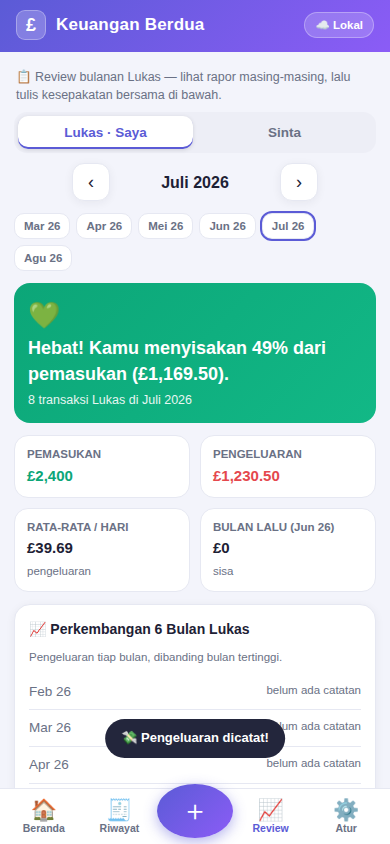
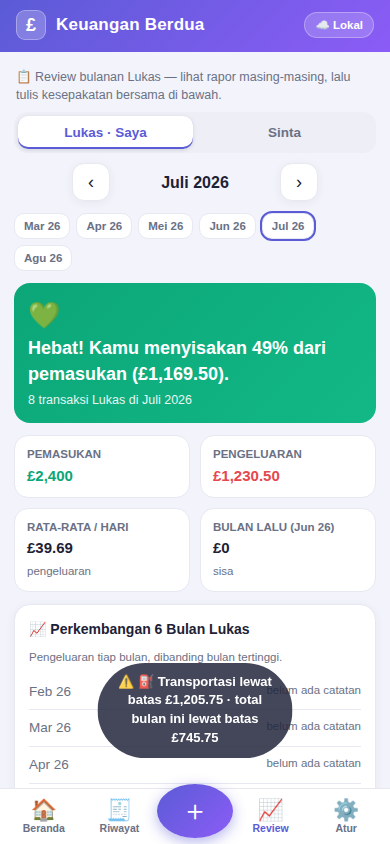
Add detailed spending limits
A dedicated limits screen sets everything in one place: an overall
monthly cap plus a per-category limit that can be pegged per day, per
week or per month, normalised to a full month when compared against
actual spending. Home shows a total-limit bar with the remaining
allowance per day left, Review compares limits against actuals, and
saving a transaction that crosses a limit warns instead of just
confirming. Limits are per person and sync across both phones.

Claude-Session: https://claude.ai/code/session_014wkPnrCu6CWC52eXcwjijP

Changed region(s): [[0.2462, 0.7701, 0.7692, 0.9242]]

diff --git a/keuangan/index.html b/keuangan/index.html
@@ -127,6 +127,11 @@ input:focus,select:focus,textarea:focus{border-color:var(--pri); background:#fff
 .persw{margin-bottom:10px}
 .persw button.on.pa{color:var(--a); box-shadow:0 1px 4px rgba(0,0,0,.12), inset 0 -2px 0 var(--a)}
 .persw button.on.pb{color:var(--b); box-shadow:0 1px 4px rgba(0,0,0,.12), inset 0 -2px 0 var(--b)}
+.limrow{display:grid; grid-template-columns:1fr 96px 118px; gap:8px; align-items:center; padding:7px 0; border-bottom:1px solid var(--line)}
+.limrow:last-of-type{border-bottom:0}
+.limrow .ln{font-size:13.5px; font-weight:600; min-width:0; overflow:hidden; text-overflow:ellipsis; white-space:nowrap}
+.limrow input{padding:9px 10px; font-size:14px; text-align:right}
+.limrow select{padding:9px 6px; font-size:12.5px}
 .owner{border-radius:12px; padding:9px 12px; font-size:12.5px; margin-bottom:10px}
 .owner.a{background:var(--a-soft); color:var(--a)} .owner.b{background:var(--b-soft); color:var(--b)}
 /* category picker grid */
@@ -283,10 +288,10 @@ function defaultCats(){return [
 /* ---------- state ---------- */
 const LSK='keuanganBerdua.v1';      // data bersama (ikut tersinkron)
 const LSL='keuanganBerdua.loc.v1';  // khusus perangkat ini (identitas HP)
-let S={ settings:{nameA:'Orang 1', nameB:'Orang 2', currency:'GBP', sync:{enabled:false, apiKey:'', projectId:'', coupleId:''}}, categories:defaultCats(), tx:[], reviews:{} };
+let S={ settings:{nameA:'Orang 1', nameB:'Orang 2', currency:'GBP', limitTotal:{a:0,b:0}, sync:{enabled:false, apiKey:'', projectId:'', coupleId:''}}, categories:defaultCats(), tx:[], reviews:{} };
 let L={ me:'a', deviceId:rid(8), setupDone:false };
 function load(){
-  try{const j=JSON.parse(localStorage.getItem(LSK)); if(j&&j.settings){S=j; S.tx=S.tx||[]; S.reviews=S.reviews||{}; S.categories=S.categories&&S.categories.length?S.categories:defaultCats(); S.settings.sync=S.settings.sync||{enabled:false,apiKey:'',projectId:'',coupleId:''}; S.settings.currency=S.settings.currency||'GBP';}}catch(e){}
+  try{const j=JSON.parse(localStorage.getItem(LSK)); if(j&&j.settings){S=j; S.tx=S.tx||[]; S.reviews=S.reviews||{}; S.categories=S.categories&&S.categories.length?S.categories:defaultCats(); S.settings.sync=S.settings.sync||{enabled:false,apiKey:'',projectId:'',coupleId:''}; S.settings.currency=S.settings.currency||'GBP'; S.settings.limitTotal=S.settings.limitTotal||{a:0,b:0};}}catch(e){}
   try{const j=JSON.parse(localStorage.getItem(LSL)); if(j&&j.deviceId)L=j;}catch(e){}
 }
 function save(){ localStorage.setItem(LSK, JSON.stringify(S)); }
@@ -316,6 +321,28 @@ const budgetOf=(c,who)=>{const b=c&&c.budget; return typeof b==='object'&&b?(Num
 function setBudgetOf(c,who,v){
   if(typeof c.budget!=='object'||!c.budget){const old=Number(c.budget)||0; c.budget={a:old,b:old};}
   c.budget[who]=v;
+}
+/* Batas pengeluaran bisa dipatok per hari, per minggu, atau per bulan.
+   Semuanya dihitung ulang menjadi batas satu bulan penuh agar bisa
+   dibandingkan dengan realisasi bulan berjalan. */
+const PERIODS={day:{lab:'per hari', short:'/hr'}, week:{lab:'per minggu', short:'/mgg'}, month:{lab:'per bulan', short:'/bln'}};
+const periodOf=(c,who)=>{const p=c&&c.period; const v=(typeof p==='object'&&p)?p[who]:p; return PERIODS[v]?v:'month';};
+function setPeriodOf(c,who,v){
+  if(typeof c.period!=='object'||!c.period){const old=PERIODS[c.period]?c.period:'month'; c.period={a:old,b:old};}
+  c.period[who]=PERIODS[v]?v:'month';
+}
+function monthLimit(c,who,mk){
+  const amt=budgetOf(c,who); if(amt<=0) return 0;
+  const per=periodOf(c,who), d=daysInMonth(mk);
+  return per==='day'?amt*d : per==='week'?amt*d/7 : amt;
+}
+const limitLabel=(c,who)=>{const per=periodOf(c,who); return rp(budgetOf(c,who))+(per==='month'?'':' '+PERIODS[per].short);};
+const totalLimit=who=>Number((S.settings.limitTotal||{})[who])||0;
+/* sisa hari pada bulan berjalan (bulan lain dihitung penuh) */
+function daysLeft(mk){
+  const d=daysInMonth(mk);
+  if(mk!==mkeyNow()) return d;
+  return Math.max(1, d - new Date().getDate() + 1);
 }
 
 /* ---------- state UI ---------- */
@@ -362,21 +389,38 @@ function vHome(){
     <div class="sum out"><div class="t">Pengeluaran</div><div class="v">${rp(s.out)}</div></div>
     <div class="sum net ${s.net<0?'minus':''}"><div><div class="t">Sisa bulan ini</div><div class="v">${rpS(s.net)}</div></div><div style="font-size:30px">${s.net<0?'😰':'💰'}</div></div>
   </div>`;
-  // pengeluaran per kategori + anggaran
+  // batas total pengeluaran bulan ini
+  const tl=totalLimit(w);
+  if(tl>0){
+    const pct=Math.round(s.out/tl*100), left=tl-s.out, dl=daysLeft(k);
+    const cls=s.out>tl?'over':(s.out>tl*.8?'warn':'');
+    h+=`<div class="card" style="margin-top:12px"><h2>🎯 Batas Pengeluaran Bulan Ini
+      <button class="btn ghost sm" style="margin-left:auto" onclick="openLimits()">Atur</button></h2>
+      <div class="top" style="display:flex;justify-content:space-between;font-size:13.5px"><span>Terpakai <b>${rp(s.out)}</b> dari ${rp(tl)}</span><b class="${cls==='over'?'':''}" style="color:${s.out>tl?'var(--out)':'var(--ink)'}">${pct}%</b></div>
+      <div class="bar" style="margin-top:6px"><i class="${cls}" style="width:${Math.min(100,pct)}%"></i></div>
+      ${left>=0
+        ? `<div class="small mut" style="margin-top:6px">Sisa <b style="color:var(--in)">${rp(left)}</b>${k===mkeyNow()?` · kira-kira <b>${rp(left/dl)}</b> per hari untuk ${dl} hari tersisa`:''}</div>`
+        : `<div class="small" style="margin-top:6px;color:var(--out);font-weight:700">Lewat batas ${rp(-left)} ⚠</div>`}
+    </div>`;
+  }
+  // pengeluaran per kategori + batasnya
   const rows=S.categories.filter(c=>c.type==='out').map(c=>({c, spent:s.byCatOut[c.id]||0}))
     .filter(x=>x.spent>0 || budgetOf(x.c,w)>0).sort((x,y)=>y.spent-x.spent);
   const orphan=Object.keys(s.byCatOut).filter(id=>!S.categories.some(c=>c.id===id));
   for(const id of orphan) rows.push({c:cat(id), spent:s.byCatOut[id]});
-  h+=`<div class="card" style="margin-top:12px"><h2>📊 Pengeluaran per Kategori</h2>`;
-  if(!rows.length) h+=`<div class="empty"><div class="e">🌱</div>Belum ada pengeluaran bulan ini.<br><span class="tiny">Atur anggaran per kategori di menu <b>Atur → Kategori</b>.</span></div>`;
+  h+=`<div class="card" style="margin-top:12px"><h2>📊 Pengeluaran per Kategori
+    <button class="btn ghost sm" style="margin-left:auto" onclick="openLimits()">🎯 Batas</button></h2>`;
+  if(!rows.length) h+=`<div class="empty"><div class="e">🌱</div>Belum ada pengeluaran bulan ini.<br><span class="tiny">Atur batas pengeluaranmu lewat tombol <b>🎯 Batas</b> di atas.</span></div>`;
   else{
-    const mx=Math.max(...rows.map(x=>Math.max(x.spent, budgetOf(x.c,w))),1);
+    const mx=Math.max(...rows.map(x=>Math.max(x.spent, monthLimit(x.c,w,k))),1);
     for(const {c,spent} of rows){
-      const b=budgetOf(c,w), pct=b>0?spent/b:spent/mx;
+      const b=monthLimit(c,w,k), pct=b>0?spent/b:spent/mx;
       const cls=b>0?(spent>b?'over':(spent>b*.8?'warn':'')):'';
+      const per=periodOf(c,w);
       h+=`<div class="crow"><div class="top"><span>${c.icon} ${esc(c.name)}</span><b>${rp(spent)}${b>0?`<span class="mut tiny"> / ${rp(b)}</span>`:''}</b></div>
       <div class="bar"><i class="${cls}" style="width:${Math.min(100,Math.round(pct*100))}%"></i></div>
-      ${b>0&&spent>b?`<div class="tiny" style="color:var(--out);font-weight:700;margin-top:3px">Melebihi anggaran ${rp(spent-b)} ⚠</div>`:''}</div>`;
+      ${b>0&&per!=='month'?`<div class="tiny mut" style="margin-top:3px">batas ${limitLabel(c,w)} · setara ${rp(b)} sebulan</div>`:''}
+      ${b>0&&spent>b?`<div class="tiny" style="color:var(--out);font-weight:700;margin-top:3px">Melebihi batas ${rp(spent-b)} ⚠</div>`:''}</div>`;
     }
   }
   h+=`</div>`;
@@ -493,19 +537,27 @@ function vReview(){
     }
     h+=`</div>`;
   }
-  // anggaran vs realisasi
+  // batas vs realisasi
+  const tlim=totalLimit(w);
   const brows=S.categories.filter(c=>c.type==='out'&&(budgetOf(c,w)>0||(s.byCatOut[c.id]||0)>0))
     .map(c=>({c,spent:s.byCatOut[c.id]||0})).sort((x,y)=>y.spent-x.spent);
-  if(brows.length){
-    h+=`<div class="card"><h2>🎯 Anggaran vs Realisasi</h2>`;
+  if(tlim>0||brows.length){
+    h+=`<div class="card"><h2>🎯 Batas vs Realisasi
+      <button class="btn ghost sm" style="margin-left:auto" onclick="openLimits()">Atur</button></h2>`;
+    if(tlim>0){
+      h+=`<div class="crow"><div class="top"><span>${s.out<=tlim?'✅':'❌'} <b>Batas total bulanan</b></span>
+        <b>${rp(s.out)}<span class="mut tiny"> / ${rp(tlim)}</span></b></div>
+        <div class="bar"><i class="${s.out>tlim?'over':(s.out>tlim*.8?'warn':'')}" style="width:${Math.min(100,Math.round(s.out/tlim*100))}%"></i></div></div>`;
+    }
     for(const {c,spent} of brows){
-      const b=budgetOf(c,w);
+      const b=monthLimit(c,w,k), per=periodOf(c,w);
       const st=b>0?(spent<=b?'✅':'❌'):'·';
       h+=`<div class="crow"><div class="top"><span>${st} ${c.icon} ${esc(c.name)}</span>
         <b>${rp(spent)}${b>0?`<span class="mut tiny"> / ${rp(b)}</span>`:''}</b></div>
-        ${b>0?`<div class="bar"><i class="${spent>b?'over':(spent>b*.8?'warn':'')}" style="width:${Math.min(100,Math.round(spent/b*100))}%"></i></div>`:''}</div>`;
+        ${b>0?`<div class="bar"><i class="${spent>b?'over':(spent>b*.8?'warn':'')}" style="width:${Math.min(100,Math.round(spent/b*100))}%"></i></div>`:''}
+        ${b>0&&per!=='month'?`<div class="tiny mut" style="margin-top:3px">batas ${limitLabel(c,w)}</div>`:''}</div>`;
     }
-    h+=`<div class="tiny mut" style="margin-top:8px">Anggaran ini milik ${esc(nameOf(w))} sendiri — atur lewat <b>Atur → Kategori & Anggaran</b>.</div></div>`;
+    h+=`<div class="tiny mut" style="margin-top:8px">Batas ini milik ${esc(nameOf(w))} sendiri.</div></div>`;
   }
   // 5 pengeluaran terbesar
   const top=txMonth(k,w).filter(t=>t.type==='out').sort((a,b)=>(b.amount||0)-(a.amount||0)).slice(0,5);
@@ -540,8 +592,9 @@ function vSet(){
   const sy=S.settings.sync||{};
   const catRows=t=>S.categories.filter(c=>c.type===t).map(c=>`
     <div class="srow"><span style="font-size:19px">${c.icon}</span>
-      <div class="n">${esc(c.name)}${t==='out'?`<div class="b">Anggaran ${esc(nameOf(UI.who))}: ${budgetOf(c,UI.who)>0?rp(budgetOf(c,UI.who))+'/bulan':'belum diatur'}</div>`:''}</div>
+      <div class="n">${esc(c.name)}${t==='out'?`<div class="b">Batas ${esc(nameOf(UI.who))}: ${budgetOf(c,UI.who)>0?limitLabel(c,UI.who):'belum diatur'}</div>`:''}</div>
       <button class="iconbtn" onclick="openCat('${esc(c.id)}')">✏</button></div>`).join('');
+  const tl=totalLimit(UI.who);
   return `
   <div class="card"><h2>👥 Profil Berdua</h2>
     <div class="grid2">
@@ -564,8 +617,16 @@ function vSet(){
     </div>
   </div>
 
-  <div class="card"><h2>🏷 Kategori & Anggaran</h2>
-    <div class="small mut" style="margin-bottom:8px">Anggaran yang ditampilkan milik <b>${esc(nameOf(UI.who))}</b>. Ganti orangnya di Beranda untuk mengatur milik satunya.</div>
+  <div class="card"><h2>🎯 Batas Pengeluaran</h2>
+    <p class="small mut" style="margin:0 0 10px">Atur batas total bulanan dan batas tiap kategori milik <b>${esc(nameOf(UI.who))}</b> dalam satu layar.
+      Batas bisa dipatok <b>per hari, per minggu, atau per bulan</b>, dan kamu diingatkan begitu terlampaui.</p>
+    <div class="srow"><span style="font-size:19px">💷</span>
+      <div class="n">Batas total per bulan<div class="b">${tl>0?rp(tl):'belum diatur'}</div></div></div>
+    <button class="btn" style="margin-top:12px" onclick="openLimits()">🎯 Atur Batas Pengeluaran</button>
+  </div>
+
+  <div class="card"><h2>🏷 Kategori</h2>
+    <div class="small mut" style="margin-bottom:8px">Batas yang ditampilkan milik <b>${esc(nameOf(UI.who))}</b>. Ganti orangnya di Beranda untuk mengatur milik satunya.</div>
     <div class="small mut" style="margin-bottom:6px">Pengeluaran</div>${catRows('out')}
     <div class="small mut" style="margin:12px 0 6px">Pemasukan</div>${catRows('in')}
     <div style="margin-top:12px"><button class="btn ghost" onclick="openCat()">➕ Tambah kategori</button></div>
@@ -704,7 +765,8 @@ window.saveTx=()=>{
   closeModal();
   UI.month=date.slice(0,7); UI.who=t.who;
   render();
-  toast(t.type==='in'?'💰 Pemasukan dicatat!':'💸 Pengeluaran dicatat!');
+  const warn=limitAlert(t);
+  toast(warn || (t.type==='in'?'💰 Pemasukan dicatat!':'💸 Pengeluaran dicatat!'));
 };
 window.delTx=id=>{
   if(!confirm('Hapus transaksi ini? (terhapus juga di HP pasangan)')) return;
@@ -712,6 +774,55 @@ window.delTx=id=>{
   save(); deleteTxCloud(id);
   closeModal(); render(); toast('🗑 Transaksi dihapus.');
 };
+
+/* ---------- modal batas pengeluaran (semua batas dalam satu layar) ---------- */
+window.openLimits=()=>{
+  const w=UI.who;
+  const cats=S.categories.filter(c=>c.type==='out');
+  const perSel=(c)=>`<select id="lp_${esc(c.id)}">${Object.keys(PERIODS).map(p=>
+    `<option value="${p}" ${periodOf(c,w)===p?'selected':''}>${PERIODS[p].lab}</option>`).join('')}</select>`;
+  $('#modal').innerHTML=`
+  <h3>🎯 Batas Pengeluaran<button class="x" onclick="closeModal()">✕</button></h3>
+  <div class="owner ${w}">Batas milik <b>${esc(nameOf(w))}</b>${w===L.me?' (kamu)':''} — pasanganmu punya batasnya sendiri.</div>
+  <div class="field"><label>Batas total pengeluaran per bulan (kosong = tanpa batas)</label>
+    <input id="lTotal" class="amount" style="font-size:20px;padding:11px" inputmode="${cur().dec?'decimal':'numeric'}"
+      value="${amtStr(totalLimit(w))}" placeholder="${cur().sym.trim()} 0" oninput="fmtAmt(this)"></div>
+  <div class="small mut" style="margin:14px 2px 8px"><b>Batas per kategori</b> — pilih satuannya: per hari, per minggu, atau per bulan.</div>
+  ${cats.map(c=>`<div class="limrow">
+    <div class="ln">${c.icon} ${esc(c.name)}</div>
+    <input id="lb_${esc(c.id)}" inputmode="${cur().dec?'decimal':'numeric'}" value="${amtStr(budgetOf(c,w))}" placeholder="0" oninput="fmtAmt(this)">
+    ${perSel(c)}
+  </div>`).join('')}
+  <button class="btn" style="margin-top:14px" onclick="saveLimits()">💾 Simpan Semua Batas</button>
+  <div class="tiny mut" style="margin-top:8px">Batas harian/mingguan otomatis dihitung ke sebulan penuh saat dibandingkan dengan pengeluaran. Kamu akan diingatkan begitu sebuah batas terlampaui.</div>`;
+  openModal();
+};
+window.saveLimits=()=>{
+  const w=UI.who;
+  (S.settings.limitTotal=S.settings.limitTotal||{a:0,b:0})[w]=num($('#lTotal').value);
+  for(const c of S.categories.filter(x=>x.type==='out')){
+    const amt=$('#lb_'+CSS.escape(c.id)), per=$('#lp_'+CSS.escape(c.id));
+    if(!amt) continue;
+    setBudgetOf(c, w, num(amt.value));
+    setPeriodOf(c, w, per?per.value:'month');
+  }
+  save(); queueSync('categories'); queueSync('settings');
+  closeModal(); render(); toast('🎯 Batas pengeluaran disimpan.');
+};
+/* peringatan begitu sebuah batas terlampaui oleh transaksi yang baru disimpan */
+function limitAlert(t){
+  if(t.type!=='out') return '';
+  const k=t.date.slice(0,7), w=whoOf(t), s=sums(k,w), msgs=[];
+  const c=S.categories.find(x=>x.id===t.catId);
+  if(c){
+    const b=monthLimit(c,w,k), spent=s.byCatOut[c.id]||0;
+    if(b>0&&spent>b) msgs.push(`${c.icon} ${c.name} lewat batas ${rp(spent-b)}`);
+    else if(b>0&&spent>b*.8) msgs.push(`${c.icon} ${c.name} sudah ${Math.round(spent/b*100)}% dari batas`);
+  }
+  const tl=totalLimit(w);
+  if(tl>0&&s.out>tl) msgs.push(`total bulan ini lewat batas ${rp(s.out-tl)}`);
+  return msgs.length?'⚠ '+msgs.join(' · '):'';
+}
 
 /* ---------- modal kategori ---------- */
 const MC={};
@@ -732,9 +843,13 @@ function drawCatModal(c){
     <div class="field"><label>Emoji ikon</label><input id="mcIcon" value="${esc(c?c.icon:'🏷')}" maxlength="4"></div>
     <div class="field"><label>Nama kategori</label><input id="mcName" value="${esc(c?c.name:'')}" placeholder="cth: Kopi & Nongkrong"></div>
   </div>
-  <div class="field" style="${MC.type==='in'?'display:none':''}"><label>Anggaran ${esc(nameOf(UI.who))} per bulan (${cur().sym.trim()}, kosong = tanpa anggaran)</label>
-    <input id="mcBud" inputmode="${cur().dec?'decimal':'numeric'}" value="${amtStr(c?budgetOf(c,UI.who):0)}" placeholder="${cur().dec?'cth: 1,500':'cth: 1.500.000'}" oninput="fmtAmt(this)">
-    <div class="tiny mut" style="margin-top:5px">Anggaran dihitung per orang. Untuk mengatur milik ${esc(nameOf(UI.who==='a'?'b':'a'))}, ganti dulu orangnya di Beranda.</div></div>
+  <div class="field" style="${MC.type==='in'?'display:none':''}"><label>Batas pengeluaran ${esc(nameOf(UI.who))} (kosong = tanpa batas)</label>
+    <div style="display:flex;gap:8px">
+      <input id="mcBud" inputmode="${cur().dec?'decimal':'numeric'}" value="${amtStr(c?budgetOf(c,UI.who):0)}" placeholder="${cur().dec?'cth: 400':'cth: 1.500.000'}" oninput="fmtAmt(this)">
+      <select id="mcPer" style="width:130px;flex:none">${Object.keys(PERIODS).map(p=>
+        `<option value="${p}" ${(c?periodOf(c,UI.who):'month')===p?'selected':''}>${PERIODS[p].lab}</option>`).join('')}</select>
+    </div>
+    <div class="tiny mut" style="margin-top:5px">Batas dihitung per orang. Untuk mengatur milik ${esc(nameOf(UI.who==='a'?'b':'a'))}, ganti dulu orangnya di Beranda.</div></div>
   <button class="btn" onclick="saveCat()">💾 Simpan</button>
   ${c?`<button class="btn danger" style="margin-top:8px" onclick="delCat('${esc(c.id)}')" ${used?'disabled title="Masih dipakai transaksi"':''}>🗑 Hapus kategori${used?' (masih dipakai transaksi)':''}</button>`:''}`;
 }
@@ -748,12 +863,11 @@ window.saveCat=()=>{
   if(!name) return toast('Isi nama kategorinya dulu.');
   const icon=$('#mcIcon').value.trim()||'🏷';
   const budget=MC.type==='out'?num($('#mcBud')?$('#mcBud').value:0):0;
-  if(MC.id){ const c=S.categories.find(x=>x.id===MC.id); if(c){ c.name=name; c.icon=icon; setBudgetOf(c,UI.who,budget); } }
-  else{
-    const c={id:'c'+Date.now().toString(36)+rid(3), name, icon, type:MC.type, budget:{a:0,b:0}};
-    c.budget[UI.who]=budget;
-    S.categories.push(c);
-  }
+  const per=MC.type==='out'&&$('#mcPer')?$('#mcPer').value:'month';
+  let c=MC.id?S.categories.find(x=>x.id===MC.id):null;
+  if(!c){ c={id:'c'+Date.now().toString(36)+rid(3), name, icon, type:MC.type, budget:{a:0,b:0}, period:{a:'month',b:'month'}}; S.categories.push(c); }
+  c.name=name; c.icon=icon;
+  setBudgetOf(c,UI.who,budget); setPeriodOf(c,UI.who,per);
   save(); queueSync('categories');
   closeModal(); render(); toast('🏷 Kategori disimpan.');
 };
@@ -861,7 +975,7 @@ function pushKV(id){
   let data;
   if(id==='categories') data=S.categories;
   else if(id==='reviews') data=S.reviews;
-  else if(id==='settings') data={nameA:S.settings.nameA, nameB:S.settings.nameB, currency:S.settings.currency};
+  else if(id==='settings') data={nameA:S.settings.nameA, nameB:S.settings.nameB, currency:S.settings.currency, limitTotal:S.settings.limitTotal};
   SYNC.db.doc(kvPath(id)).set({j:JSON.stringify(data), dev:L.deviceId, at:Date.now()})
     .then(()=>setSyncBadge('on'))
     .catch(e=>setSyncBadge('err','☁ Gagal kirim: '+e.message));
@@ -888,7 +1002,7 @@ function listenCloud(){
       if(val==null) return;
       const id=ch.doc.id;
       if(id==='categories'){ S.categories=val; changed=true; }
-      else if(id==='settings'){ Object.assign(S.settings,{nameA:val.nameA??S.settings.nameA, nameB:val.nameB??S.settings.nameB, currency:val.currency??S.settings.currency}); changed=true; }
+      else if(id==='settings'){ Object.assign(S.settings,{nameA:val.nameA??S.settings.nameA, nameB:val.nameB??S.settings.nameB, currency:val.currency??S.settings.currency, limitTotal:val.limitTotal??S.settings.limitTotal}); changed=true; }
       else if(id==='reviews'){
         for(const k in val){ const cur=S.reviews[k]; if(!cur||(val[k].at||0)>=(cur.at||0)) S.reviews[k]=val[k]; }
         changed=true;
@@ -925,7 +1039,7 @@ function remoteRefresh(){
 /* ---------- ekspor / impor / demo / hapus ---------- */
 window.exportJson=()=>{
   const data={app:'keuangan-berdua', version:1, exportedAt:new Date().toISOString(),
-    settings:{nameA:S.settings.nameA, nameB:S.settings.nameB, currency:S.settings.currency},
+    settings:{nameA:S.settings.nameA, nameB:S.settings.nameB, currency:S.settings.currency, limitTotal:S.settings.limitTotal},
     categories:S.categories, tx:S.tx, reviews:S.reviews};
   const blob=new Blob([JSON.stringify(data,null,2)],{type:'application/json'});
   const a=document.createElement('a');
@@ -943,7 +1057,7 @@ window.importJson=inp=>{
       if(!Array.isArray(d.tx)||!Array.isArray(d.categories)) throw new Error('format tidak dikenal');
       if(!confirm('Impor akan MENGGANTI data di HP ini dengan isi file ('+d.tx.length+' transaksi). Lanjutkan?')) return;
       S.categories=d.categories; S.tx=d.tx; S.reviews=d.reviews||{};
-      if(d.settings){ S.settings.nameA=d.settings.nameA||S.settings.nameA; S.settings.nameB=d.settings.nameB||S.settings.nameB; S.settings.currency=d.settings.currency||S.settings.currency; }
+      if(d.settings){ S.settings.nameA=d.settings.nameA||S.settings.nameA; S.settings.nameB=d.settings.nameB||S.settings.nameB; S.settings.currency=d.settings.currency||S.settings.currency; S.settings.limitTotal=d.settings.limitTotal||S.settings.limitTotal; }
       save(); render(); toast('⬆ Data berhasil diimpor.');
       if(SYNC.on) pushAllToCloud();
     }catch(e){ toast('❌ File tidak valid: '+e.message); }
@@ -1006,13 +1120,21 @@ window.fillDemo=()=>{
   ].filter(t=>t.date<=todayStr()||t.date.slice(0,7)===prv);
   S.tx.push(...demo);
   // contoh anggaran
-  const setBud=(id,va,vb)=>{const c=S.categories.find(x=>x.id===id); if(!c) return;
-    if(!budgetOf(c,'a')) setBudgetOf(c,'a',va);
-    if(!budgetOf(c,'b')) setBudgetOf(c,'b',vb);};
-  setBud('makan',A(90,250000),A(60,150000));       setBud('belanja',A(60,300000),A(340,1700000));
-  setBud('transport',A(90,300000),A(30,100000));   setBud('tagihan',A(60,200000),A(140,400000));
-  setBud('hiburan',A(70,180000),A(50,120000));     setBud('nabung',A(200,600000),A(500,1500000));
-  setBud('rumah',A(1000,1600000),0);
+  // contoh batas: sebagian dipatok harian/mingguan agar terlihat detailnya
+  const setBud=(id,va,vb,per)=>{const c=S.categories.find(x=>x.id===id); if(!c) return;
+    if(!budgetOf(c,'a')){ setBudgetOf(c,'a',va); setPeriodOf(c,'a',per||'month'); }
+    if(!budgetOf(c,'b')){ setBudgetOf(c,'b',vb); setPeriodOf(c,'b',per||'month'); }};
+  setBud('makan',     A(3,8000),      A(2,5000),      'day');
+  setBud('belanja',   A(15,70000),    A(80,400000),   'week');
+  setBud('transport', A(90,300000),   A(30,100000));
+  setBud('tagihan',   A(60,200000),   A(140,400000));
+  setBud('hiburan',   A(70,180000),   A(50,120000));
+  setBud('nabung',    A(200,600000),  A(500,1500000));
+  setBud('rumah',     A(1000,1600000), 0);
+  const lt=S.settings.limitTotal=S.settings.limitTotal||{a:0,b:0};
+  if(!lt.a) lt.a=A(1500,3800000);
+  if(!lt.b) lt.b=A(1200,3000000);
+  queueSync('settings');
   save(); queueSync('categories');
   if(SYNC.on) for(const t of demo) pushTxCloud(t);
   render(); toast('🎬 Data contoh dimuat — jelajahi Beranda, Riwayat, dan Review!');

diff --git a/keuangan/PANDUAN_KEUANGAN.md b/keuangan/PANDUAN_KEUANGAN.md
@@ -3,7 +3,8 @@
 Aplikasi catatan keuangan bulanan untuk **dua orang dengan dua HP berbeda**. Setiap layar
 menampilkan **keuangan satu orang saja**, jadi angkanya tidak tercampur. Data kalian tetap
 **tersinkron real-time** antar HP, dan lewat tombol pengalih di bagian atas kalian bisa melihat
-perkembangan pasangan kapan saja. Dilengkapi anggaran per kategori (juga per orang) dan
+perkembangan pasangan kapan saja. Dilengkapi **batas pengeluaran yang rinci** (total bulanan dan
+per kategori, bisa dipatok harian/mingguan/bulanan, lengkap dengan peringatan otomatis) serta
 **review keuangan setiap bulan**.
 
 **Satu file. Tanpa server sendiri. Gratis.**
@@ -61,12 +62,29 @@ sejak awal.
 - Simpan → langsung terlihat di **Beranda** dan (jika sinkron aktif) di HP pasangan dalam hitungan detik.
 - Salah catat? Buka transaksinya dari Beranda/Riwayat → ubah atau hapus.
 
-### Anggaran (budget) per kategori
-Di **Atur → Kategori & Anggaran**, tekan ✏ pada kategori pengeluaran dan isi anggaran per bulan
-(misal Belanja Harian £400). **Anggaran dihitung per orang**, jadi kalian masing-masing punya
-batas sendiri di kategori yang sama. Yang sedang diatur adalah milik orang yang aktif di pengalih;
-untuk mengatur milik pasangan, ganti dulu orangnya di Beranda. Bilah kemajuan berubah kuning saat
-mendekati batas dan merah saat terlampaui.
+## 3b. Mengatur Batas Pengeluaran 🎯
+
+Buka **Atur → 🎯 Atur Batas Pengeluaran** (atau tombol **🎯 Batas** di Beranda). Semua batas diatur
+dalam satu layar:
+
+- **Batas total per bulan** — pagu pengeluaran keseluruhan, misal £1.500. Beranda lalu menampilkan
+  bilah "Batas Pengeluaran Bulan Ini" berisi jumlah terpakai, persentase, sisa, dan hitungan
+  **kira-kira berapa lagi yang boleh dipakai per hari** untuk sisa hari di bulan itu.
+- **Batas tiap kategori** — isi angkanya, lalu pilih satuannya: **per hari, per minggu, atau per bulan**.
+  Contoh yang lebih natural: *Makan & Minum £3 per hari*, *Belanja Harian £15 per minggu*,
+  *Sewa £1.000 per bulan*. Aplikasi otomatis menghitungnya menjadi setara sebulan penuh saat
+  dibandingkan dengan realisasi, dan menuliskan konversinya (*batas £3/hr · setara £93 sebulan*).
+
+Kosongkan angkanya (atau isi 0) bila sebuah kategori tidak ingin dibatasi.
+
+**Batas dihitung per orang.** Kalian masing-masing punya pagu sendiri di kategori yang sama, jadi
+Lukas bisa £90 untuk Transportasi sementara Sinta £30. Yang sedang diatur adalah milik orang yang
+aktif di pengalih; untuk mengatur milik pasangan, ganti dulu orangnya di Beranda.
+
+**Peringatan otomatis.** Begitu sebuah transaksi membuat kategori atau total bulanan menembus
+batas, muncul pesan seperti *"⚠ 🍜 Makan & Minum lewat batas £12"* tepat setelah menyimpan.
+Aplikasi juga memperingatkan saat pemakaian sudah lebih dari 80% batas. Di Beranda, bilah kemajuan
+berubah kuning saat mendekati batas dan merah saat terlampaui.
 
 ### Melihat detail
 Tab **🧾 Riwayat** menampilkan transaksi orang yang sedang dipilih untuk bulan itu, bisa disaring
@@ -83,7 +101,7 @@ Inilah ritual bulanannya — lakukan **berdua** di awal bulan untuk bulan yang b
    - **Vonis kesehatan keuangan** — berapa % pemasukan yang berhasil disisakan (atau peringatan defisit);
    - **Perbandingan dengan bulan sebelumnya** — pemasukan/pengeluaran naik atau turun berapa persen;
    - **Perkembangan 6 bulan** — tren pengeluaran orang itu dari bulan ke bulan;
-   - **Anggaran vs realisasi** per kategori dengan tanda ✅/❌;
+   - **Batas vs realisasi** — batas total bulanan dan tiap kategori, dengan tanda ✅/❌;
    - **5 pengeluaran terbesar** bulan itu;
    - Rata-rata pengeluaran per hari.
 3. Ketuk nama pasangan di pengalih untuk membaca rapornya, lalu kembali ke namamu. Dengan begitu
@@ -150,7 +168,7 @@ Catat satu pengeluaran di HP pertama → dalam ±2 detik muncul di HP kedua dise
 | Hal | Penjelasan |
 |---|---|
 | Butuh internet? | Hanya untuk sinkron. Tanpa internet aplikasi tetap jalan (tersimpan lokal) dan otomatis menyusul terkirim saat online. |
-| Apa saja yang tersinkron | Transaksi kalian berdua, kategori & anggaran masing-masing, nama kalian, dan catatan review. Pilihan "HP ini dipakai oleh" tetap per-HP. |
+| Apa saja yang tersinkron | Transaksi kalian berdua, kategori, batas pengeluaran masing-masing, nama kalian, dan catatan review. Pilihan "HP ini dipakai oleh" tetap per-HP. |
 | Tampilan | Selalu satu orang pada satu waktu. Pengalih di atas layar untuk berganti orang; aplikasi selalu terbuka pada pemilik HP itu. |
 | Menghapus transaksi | Terhapus di kedua HP. |
 | "Hapus SEMUA data" | Juga membersihkan data di cloud (HP pasangan ikut kosong) — hati-hati. |
